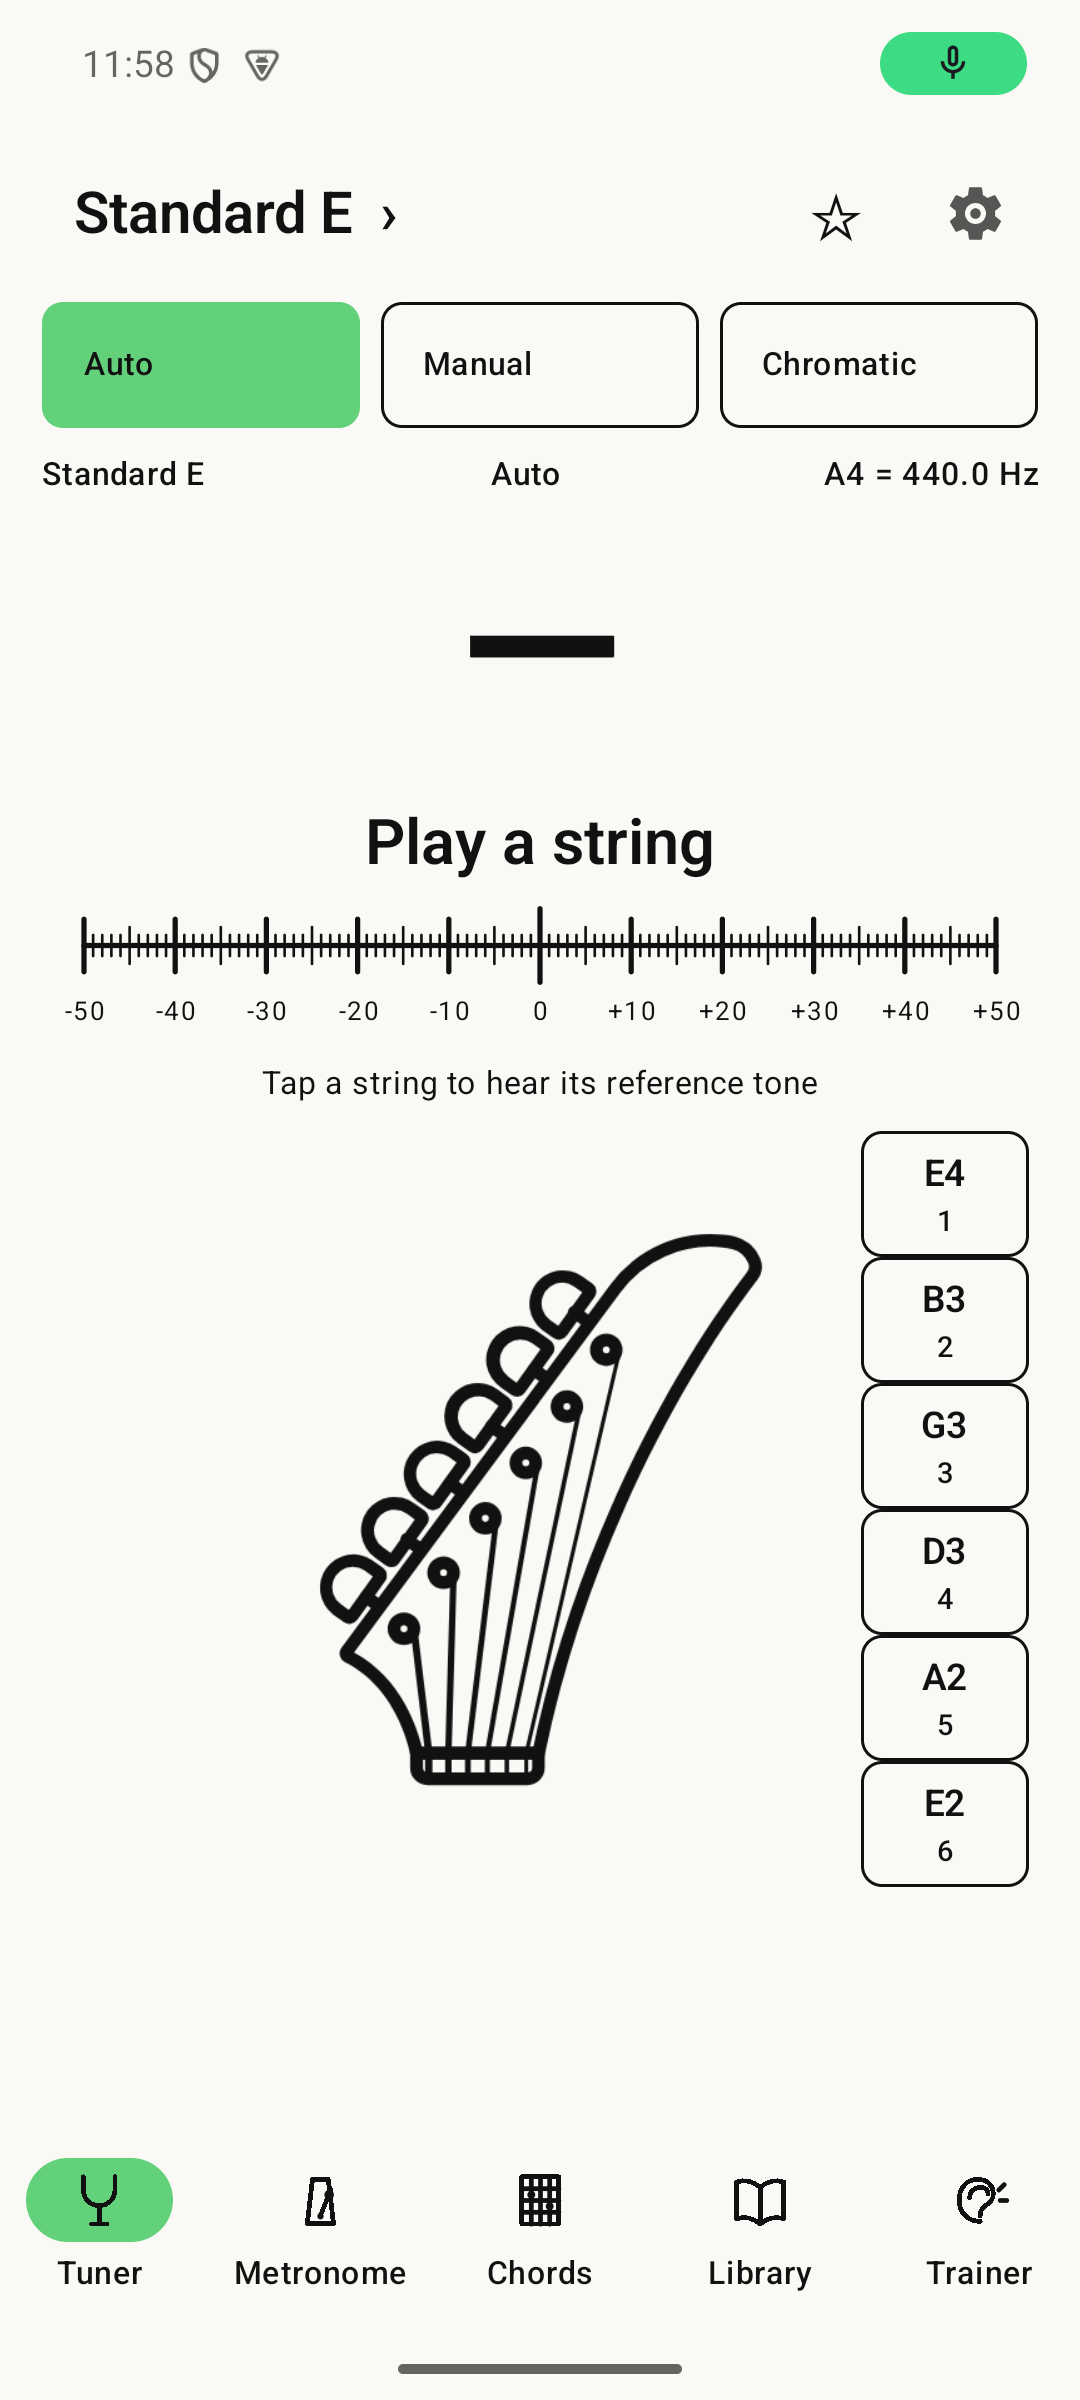
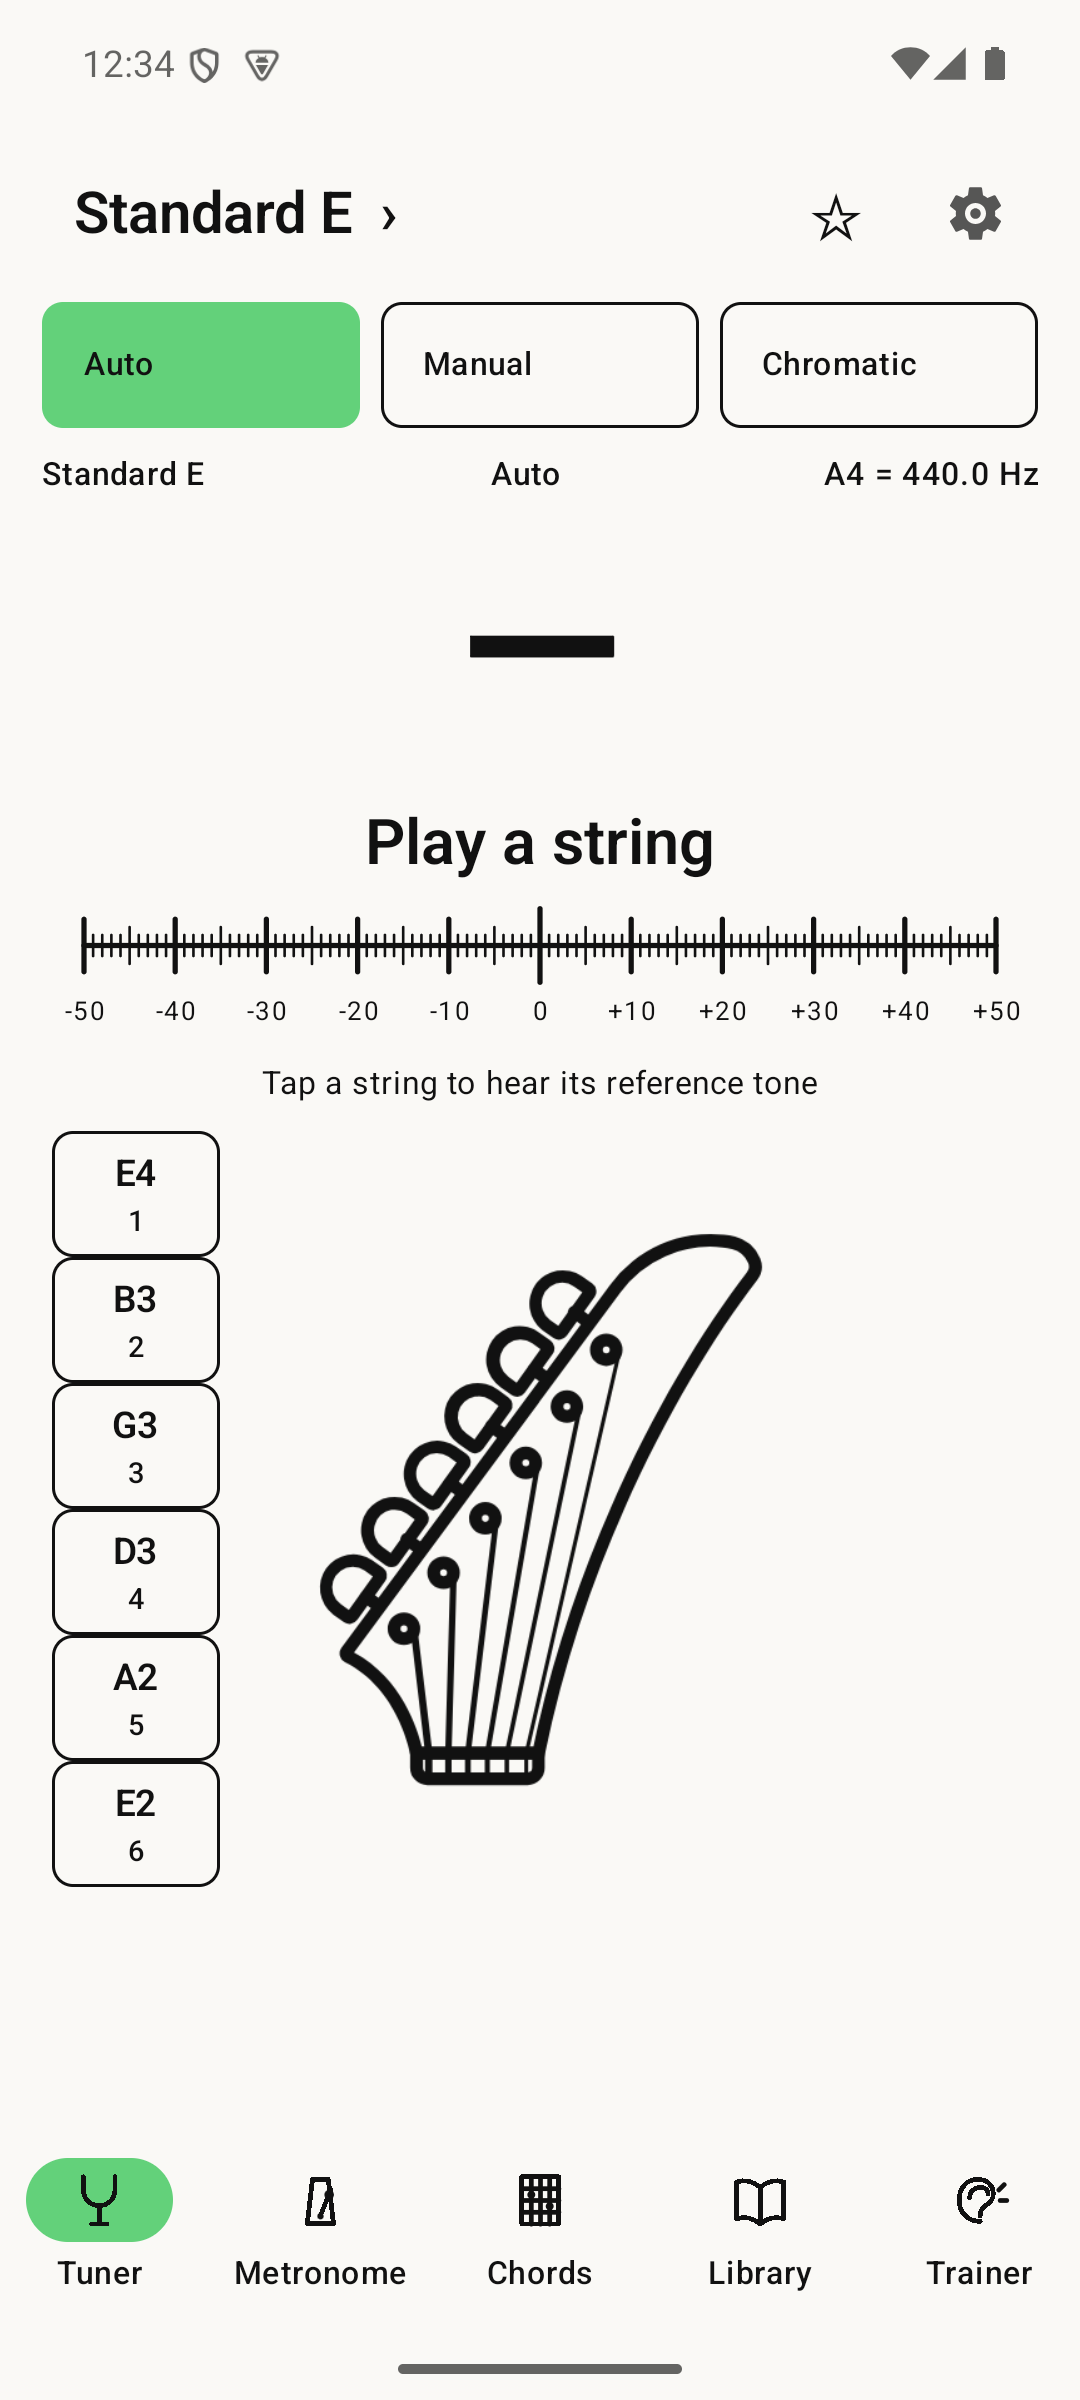
feat(release): prepare Play closed test

diff --git a/docs/privacy/index.html b/docs/privacy/index.html
@@ -1,0 +1,49 @@
+<!doctype html>
+<html lang="en">
+<head>
+  <meta charset="utf-8">
+  <meta name="viewport" content="width=device-width, initial-scale=1">
+  <meta name="description" content="TuneItAll privacy policy.">
+  <title>Privacy policy — TuneItAll</title>
+  <link rel="icon" href="../assets/icon.png">
+  <link rel="stylesheet" href="../assets/site.css">
+</head>
+<body>
+  <header class="shell nav"><a class="brand" href="../"><img src="../assets/icon.png" alt="">TuneItAll</a><nav class="links"><a href="../">Home</a><a href="../support/">Support</a></nav></header>
+  <main class="shell section copy">
+    <div class="eyebrow">Privacy policy</div>
+    <h1>Your audio stays on your device.</h1>
+    <p class="meta">Effective date: August 24, 2026 · Last updated: August 24, 2026</p>
+    <p>TuneItAll is an offline Android application. TuneItAll does not collect, share, sell, or transmit personal data. The application has no account system, advertisements, analytics, tracking SDKs, or Internet permission.</p>
+    <h2>Microphone</h2>
+    <p>TuneItAll requests <code>RECORD_AUDIO</code> to detect musical pitch while the tuner is visible. Microphone samples are processed transiently in memory on the device. TuneItAll does not record, retain, upload, or share microphone audio.</p>
+    <h2>Selected song files</h2>
+    <p>If you choose a song for chord analysis, Android grants TuneItAll access only to that selected file. TuneItAll decodes the file on the device. The source file is not copied, retained, uploaded, or shared.</p>
+    <h2>Data stored on the device</h2>
+    <p>TuneItAll stores settings, favorite and custom tunings, and trainer scores locally. You can remove this data by clearing the application data or uninstalling TuneItAll.</p>
+    <h2>Network access and third parties</h2>
+    <p>TuneItAll does not request Internet access and does not send data to third parties. Third-party open-source components and visual assets are listed in the repository notices and do not add network tracking.</p>
+    <h2>Children</h2>
+    <p>TuneItAll is not directed specifically to children and does not collect data from any user.</p>
+    <h2>Changes</h2>
+    <p>If a future release changes data handling, this page and the effective date will be updated before that release is distributed.</p>
+    <h2>Contact</h2>
+    <p>For privacy questions, open a private-safe support request through the <a href="https://github.com/Majkey25/TuneItAll/issues">TuneItAll issue tracker</a>. Do not include recordings or personal information.</p>
+
+    <hr>
+    <div class="eyebrow">Zásady ochrany soukromí</div>
+    <h2>Zvuk zůstává ve vašem zařízení.</h2>
+    <p class="meta">Platnost od: 24. srpna 2026 · Poslední aktualizace: 24. srpna 2026</p>
+    <p>TuneItAll je offline aplikace pro Android. Neshromažďuje, nesdílí, neprodává ani neodesílá osobní údaje. Nemá účty, reklamy, analytiku, sledovací SDK ani oprávnění k internetu.</p>
+    <h2>Mikrofon</h2>
+    <p>Oprávnění <code>RECORD_AUDIO</code> slouží pouze k rozpoznání tónu během otevřené ladičky. Vzorky se zpracují dočasně v paměti zařízení a ihned se zahodí.</p>
+    <h2>Vybrané písničky</h2>
+    <p>Pokud vyberete písničku pro analýzu akordů, Android zpřístupní aplikaci pouze tento soubor. TuneItAll ho zpracuje v zařízení a nekopíruje, neuchovává ani neodesílá zdrojový zvuk.</p>
+    <h2>Místní data</h2>
+    <p>Nastavení, oblíbená a vlastní ladění a skóre traineru zůstávají v zařízení. Odstraníte je vymazáním dat aplikace nebo odinstalováním TuneItAll.</p>
+    <h2>Kontakt</h2>
+    <p>Dotaz pošlete přes <a href="https://github.com/Majkey25/TuneItAll/issues">GitHub Issues</a>. Nepřikládejte nahrávky ani osobní údaje.</p>
+  </main>
+  <footer class="shell footer"><span>© 2026 TuneItAll</span><span><a href="../">Home</a> · <a href="../support/">Support</a></span></footer>
+</body>
+</html>

diff --git a/docs/assets/site.css b/docs/assets/site.css
@@ -1,0 +1,68 @@
+:root {
+  color-scheme: light dark;
+  --bg: #faf9f6;
+  --ink: #111311;
+  --muted: #5c625d;
+  --line: #c9cdc9;
+  --accent: #5dd57a;
+  --accent-ink: #07140a;
+  font-family: Inter, ui-sans-serif, system-ui, -apple-system, BlinkMacSystemFont, "Segoe UI", sans-serif;
+}
+
+* { box-sizing: border-box; }
+html { scroll-behavior: smooth; }
+body { margin: 0; background: var(--bg); color: var(--ink); }
+a { color: inherit; }
+img { display: block; max-width: 100%; }
+
+.shell { width: min(1080px, calc(100% - 40px)); margin: 0 auto; }
+.nav { display: flex; align-items: center; justify-content: space-between; min-height: 76px; gap: 20px; }
+.brand { display: flex; align-items: center; gap: 12px; font-weight: 800; text-decoration: none; }
+.brand img { width: 38px; height: 38px; border-radius: 10px; }
+.links { display: flex; align-items: center; gap: 22px; font-size: 14px; }
+.links a { text-decoration: none; }
+
+.hero { min-height: calc(100svh - 76px); display: grid; grid-template-columns: 0.9fr 1.1fr; align-items: center; gap: 64px; padding: 48px 0 72px; }
+.eyebrow { font-size: 13px; font-weight: 800; letter-spacing: 0.14em; text-transform: uppercase; color: var(--muted); }
+h1 { margin: 14px 0 18px; font-size: clamp(52px, 8vw, 100px); line-height: 0.9; letter-spacing: -0.06em; }
+.lead { max-width: 560px; margin: 0 0 30px; font-size: clamp(18px, 2.1vw, 24px); line-height: 1.45; color: var(--muted); }
+.actions { display: flex; flex-wrap: wrap; gap: 12px; }
+.button { min-height: 48px; display: inline-flex; align-items: center; justify-content: center; padding: 0 20px; border: 2px solid var(--ink); border-radius: 999px; font-weight: 800; text-decoration: none; transition: transform 140ms ease, background 140ms ease; }
+.button.primary { background: var(--accent); color: var(--accent-ink); border-color: var(--accent); }
+.button:hover { transform: translateY(-2px); }
+.button:focus-visible, a:focus-visible { outline: 3px solid var(--accent); outline-offset: 3px; }
+.hero-art { overflow: hidden; border-radius: 28px; border: 2px solid var(--ink); background: #111; }
+.hero-art img { width: 100%; height: auto; }
+
+.section { padding: 100px 0; border-top: 1px solid var(--line); }
+.section h2 { max-width: 760px; margin: 0 0 42px; font-size: clamp(36px, 5vw, 64px); line-height: 1; letter-spacing: -0.045em; }
+.feature-list { display: grid; grid-template-columns: repeat(3, 1fr); gap: 0; border-top: 1px solid var(--line); }
+.feature { padding: 28px 28px 28px 0; border-bottom: 1px solid var(--line); }
+.feature:nth-child(3n + 2), .feature:nth-child(3n + 3) { padding-left: 28px; border-left: 1px solid var(--line); }
+.feature h3 { margin: 0 0 8px; font-size: 20px; }
+.feature p, .copy p { margin: 0; line-height: 1.65; color: var(--muted); }
+.copy { max-width: 760px; }
+.copy h1 { font-size: clamp(42px, 7vw, 74px); }
+.copy h2 { margin: 48px 0 12px; font-size: 28px; }
+.copy ul { padding-left: 22px; line-height: 1.7; color: var(--muted); }
+.meta { margin: 12px 0 40px; color: var(--muted); }
+.footer { display: flex; justify-content: space-between; gap: 24px; padding: 34px 0 52px; border-top: 1px solid var(--line); color: var(--muted); font-size: 14px; }
+
+@media (max-width: 760px) {
+  .shell { width: min(100% - 28px, 1080px); }
+  .nav { align-items: flex-start; padding: 18px 0; }
+  .links { flex-wrap: wrap; justify-content: flex-end; gap: 10px 16px; }
+  .hero { min-height: auto; grid-template-columns: 1fr; gap: 38px; padding-top: 56px; }
+  .feature-list { grid-template-columns: 1fr; }
+  .feature, .feature:nth-child(3n + 2), .feature:nth-child(3n + 3) { padding: 24px 0; border-left: 0; }
+  .footer { flex-direction: column; }
+}
+
+@media (prefers-color-scheme: dark) {
+  :root { --bg: #0e100f; --ink: #f2f1ed; --muted: #b3b8b4; --line: #363a37; --accent-ink: #07140a; }
+}
+
+@media (prefers-reduced-motion: reduce) {
+  html { scroll-behavior: auto; }
+  .button { transition: none; }
+}

diff --git a/docs/index.html b/docs/index.html
@@ -1,0 +1,58 @@
+<!doctype html>
+<html lang="en">
+<head>
+  <meta charset="utf-8">
+  <meta name="viewport" content="width=device-width, initial-scale=1">
+  <meta name="description" content="TuneItAll is an offline Android tuner, metronome, chord library, and ear trainer.">
+  <title>TuneItAll — Offline tools for musicians</title>
+  <link rel="icon" href="assets/icon.png">
+  <link rel="stylesheet" href="assets/site.css">
+</head>
+<body>
+  <header class="shell nav">
+    <a class="brand" href="./"><img src="assets/icon.png" alt="">TuneItAll</a>
+    <nav class="links" aria-label="Main navigation">
+      <a href="#features">Features</a>
+      <a href="privacy/">Privacy</a>
+      <a href="support/">Support</a>
+      <a href="https://github.com/Majkey25/TuneItAll">GitHub</a>
+    </nav>
+  </header>
+  <main>
+    <section class="shell hero">
+      <div>
+        <div class="eyebrow">Offline · no ads · Android</div>
+        <h1>Tune.<br>Play.<br>Improve.</h1>
+        <p class="lead">A fast instrument tuner, sample-accurate metronome, chord library, and ear trainer that keeps your audio on your device.</p>
+        <div class="actions">
+          <a class="button primary" href="https://github.com/Majkey25/TuneItAll/releases">Download testing build</a>
+          <a class="button" href="privacy/">Read the privacy policy</a>
+        </div>
+      </div>
+      <div class="hero-art"><img src="assets/feature-graphic.png" alt="TuneItAll tuner interface"></div>
+    </section>
+    <section class="section" id="features">
+      <div class="shell">
+        <div class="eyebrow">One focused toolkit</div>
+        <h2>Everything needed between picking up the instrument and playing in time.</h2>
+        <div class="feature-list">
+          <article class="feature"><h3>Tuner</h3><p>Auto, Manual, and Chromatic modes with adjustable A4 reference and stable pitch tracking.</p></article>
+          <article class="feature"><h3>Metronome</h3><p>20–400 BPM, meter, subdivision, accents, count-in, and clean foreground-only audio.</p></article>
+          <article class="feature"><h3>Chords</h3><p>Canonical guitar and ukulele diagrams plus experimental on-device song analysis.</p></article>
+          <article class="feature"><h3>Trainer</h3><p>Chord recognition and twelve-note ear training with generated local audio.</p></article>
+          <article class="feature"><h3>Instruments</h3><p>Six- to nine-string guitars, four-string bass, ukulele, and a universal chromatic tuner.</p></article>
+          <article class="feature"><h3>Private by design</h3><p>No account, ads, analytics, trackers, cloud upload, or Internet permission.</p></article>
+        </div>
+      </div>
+    </section>
+    <section class="section">
+      <div class="shell copy">
+        <div class="eyebrow">Local processing</div>
+        <h2>Your instrument audio stays yours.</h2>
+        <p>TuneItAll analyzes microphone samples in memory and discards them immediately. A song selected for chord analysis is decoded only on the device and is never copied or uploaded.</p>
+      </div>
+    </section>
+  </main>
+  <footer class="shell footer"><span>© 2026 TuneItAll</span><span><a href="privacy/">Privacy</a> · <a href="support/">Support</a> · <a href="https://github.com/Majkey25/TuneItAll/releases">Releases</a></span></footer>
+</body>
+</html>

diff --git a/docs/support/index.html b/docs/support/index.html
@@ -1,0 +1,27 @@
+<!doctype html>
+<html lang="en">
+<head>
+  <meta charset="utf-8">
+  <meta name="viewport" content="width=device-width, initial-scale=1">
+  <meta name="description" content="TuneItAll support and troubleshooting.">
+  <title>Support — TuneItAll</title>
+  <link rel="icon" href="../assets/icon.png">
+  <link rel="stylesheet" href="../assets/site.css">
+</head>
+<body>
+  <header class="shell nav"><a class="brand" href="../"><img src="../assets/icon.png" alt="">TuneItAll</a><nav class="links"><a href="../">Home</a><a href="../privacy/">Privacy</a></nav></header>
+  <main class="shell section copy">
+    <div class="eyebrow">Support</div>
+    <h1>Get TuneItAll working.</h1>
+    <h2>The tuner cannot hear the instrument</h2>
+    <ul><li>Grant microphone permission.</li><li>Open <strong>Settings → Tuner</strong> and choose <strong>Quiet room</strong>.</li><li>Move the instrument closer to the microphone and reduce background noise.</li></ul>
+    <h2>The metronome is silent</h2>
+    <ul><li>Raise the Android media volume.</li><li>Open <strong>Settings → Metronome</strong> and confirm that <strong>Mute</strong> is off.</li><li>Raise the metronome volume and try another sound style.</li></ul>
+    <h2>Report a problem</h2>
+    <p>Open a report in <a href="https://github.com/Majkey25/TuneItAll/issues">GitHub Issues</a>. Include the TuneItAll version, Android version, device model, and exact steps. Do not attach private recordings or personal information.</p>
+    <h2>Podpora v češtině</h2>
+    <p>Pokud ladička neslyší nástroj, povolte mikrofon a v <strong>Nastavení → Ladička</strong> vyberte profil pro tichou místnost. Pokud neslyšíte metronom, zvyšte systémovou hlasitost médií a zkontrolujte, že metronom není ztlumený.</p>
+  </main>
+  <footer class="shell footer"><span>© 2026 TuneItAll</span><span><a href="../privacy/">Privacy</a> · <a href="https://github.com/Majkey25/TuneItAll/releases">Releases</a></span></footer>
+</body>
+</html>

diff --git a/README.md b/README.md
@@ -13,17 +13,17 @@ TuneItAll is a fast, offline Android tuner for guitar, bass, ukulele, and
 chromatic use. It opens directly on the tuner surface. No account, ads,
 analytics, tracking, onboarding, or network permission.
 
-Status: public testing prerelease `0.3.0-alpha.5`. TuneItAll is not published
+Status: public testing prerelease `0.3.0-alpha.6`. TuneItAll is not published
 on Google Play.
 
 ## Download
 
-[![Download TuneItAll APK](https://img.shields.io/badge/Download-TuneItAll_APK-111111?style=for-the-badge&logo=android&logoColor=white)](https://github.com/Majkey25/TuneItAll/releases/download/v0.3.0-alpha.5/TuneItAll-v0.3.0-alpha.5-debug.apk)
+[![Download TuneItAll APK](https://img.shields.io/badge/Download-TuneItAll_APK-111111?style=for-the-badge&logo=android&logoColor=white)](https://github.com/Majkey25/TuneItAll/releases/download/v0.3.0-alpha.6/TuneItAll-v0.3.0-alpha.6-debug.apk)
 
 The current APK supports Android 8.0 and newer. It is a debug-signed testing
 build distributed through GitHub, so Android may ask for permission to install
 an app from this source. The APK and its SHA-256 checksum are also available on
-the [release page](https://github.com/Majkey25/TuneItAll/releases/tag/v0.3.0-alpha.5).
+the [release page](https://github.com/Majkey25/TuneItAll/releases/tag/v0.3.0-alpha.6).
 
 ## Features
 
@@ -148,7 +148,7 @@ GitHub Actions runs unit tests, Android Lint, debug assembly, release bundle
 assembly, package/permission verification, and SHA-256 generation. Actions are
 pinned to immutable commit SHAs.
 
-Pre-release tags such as `v0.3.0-alpha.5` build a verified, debug-signed APK and
+Pre-release tags such as `v0.3.0-alpha.6` build a verified, debug-signed APK and
 publish it with a SHA-256 checksum. A reviewed stable `vX.Y.Z` tag triggers the
 signed release workflow only when all four keystore secrets are configured. It
 creates a draft GitHub release; Play upload remains a deliberate manual step.
@@ -163,6 +163,8 @@ and [security policy](SECURITY.md).
   repository root.
 - English/Czech listings: `docs/store/`
 - Privacy policies: `docs/privacy/`
+- Public website: `https://majkey25.github.io/TuneItAll/`
+- Public privacy policy: `https://majkey25.github.io/TuneItAll/privacy/`
 - Data Safety record and release checklist: `docs/store/`
 - Deterministic SVG sources: `assets/source/`
 

diff --git a/.github/release-notes/preview.md b/.github/release-notes/preview.md
@@ -1,4 +1,4 @@
-TuneItAll `v0.3.0-alpha.5` prerelease testing build.
+TuneItAll `v0.3.0-alpha.6` prerelease testing build.
 
 Download the APK attached below and open it on an Android 8.0+ device. Android
 may ask for permission to install apps from your browser or file manager because
@@ -30,6 +30,8 @@ Highlights:
 - The supplied CC0 metronome SVG rebuilt as a static body with exactly one
   audio-synchronized moving arm.
 - Narrower, taller chord diagrams in both Chords and Trainer.
+- Six-inline string names and numbers now sit on the left side.
+- Public privacy and support pages for Play closed testing.
 - No ads, accounts, analytics, tracking, or network permission.
 
 The app passed unit, Lint, API 35 Compose, audio-session, local-file decoding,

diff --git a/CHANGELOG.md b/CHANGELOG.md
@@ -1,5 +1,13 @@
 # Changelog
 
+## 0.3.0-alpha.6 — 2026-08-24
+
+- Move all 6-inline string names and physical numbers to the left of the
+  headstock while retaining E4 string 1 through E2 string 6 order.
+- Add the public TuneItAll website, privacy policy, and support page for Google
+  Play distribution.
+- Add a manual GitHub workflow that builds and verifies a signed Play bundle.
+
 ## 0.3.0-alpha.5 — 2026-08-24
 
 - Use the exact attributed Les Paul and Explorer headstock artwork requested

diff --git a/docs/store/data-safety.md b/docs/store/data-safety.md
@@ -1,6 +1,6 @@
 # Google Play Data Safety record
 
-Proposed answers for release `0.3.0-alpha.5`, based on the current manifest and runtime
+Proposed answers for release `0.3.0-alpha.6`, based on the current manifest and runtime
 dependency set:
 
 - Data collected: **No**
